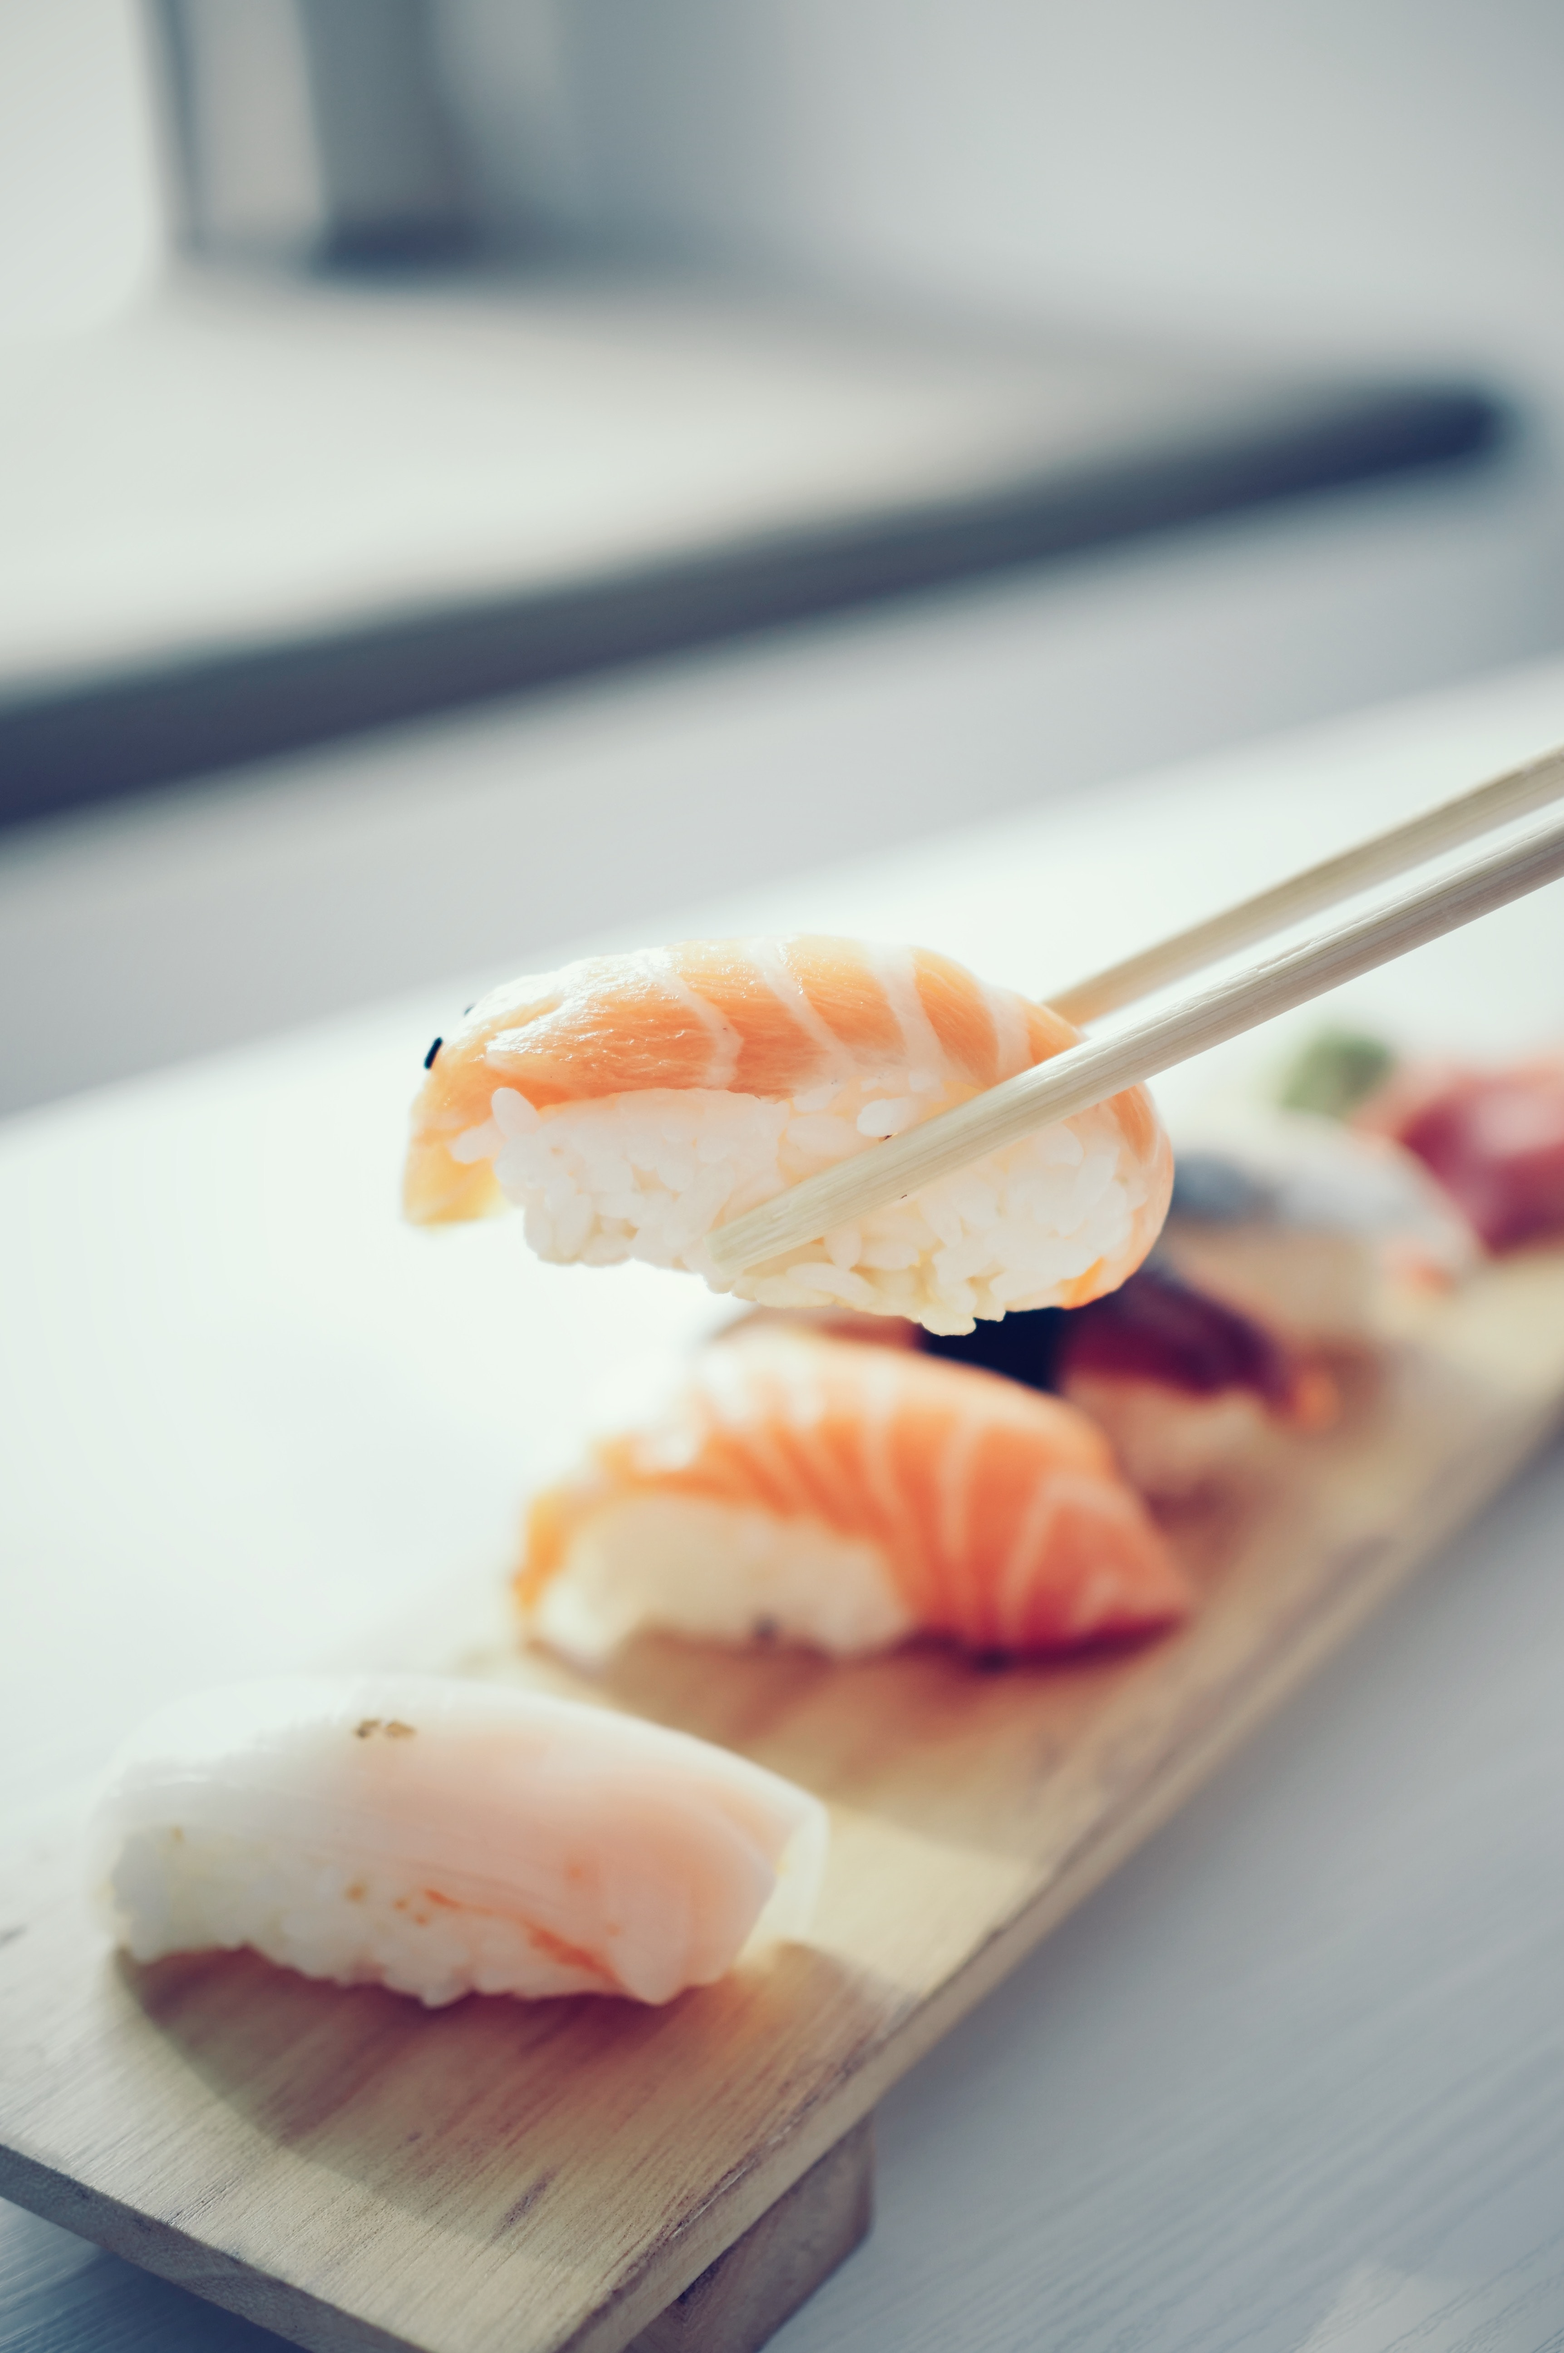
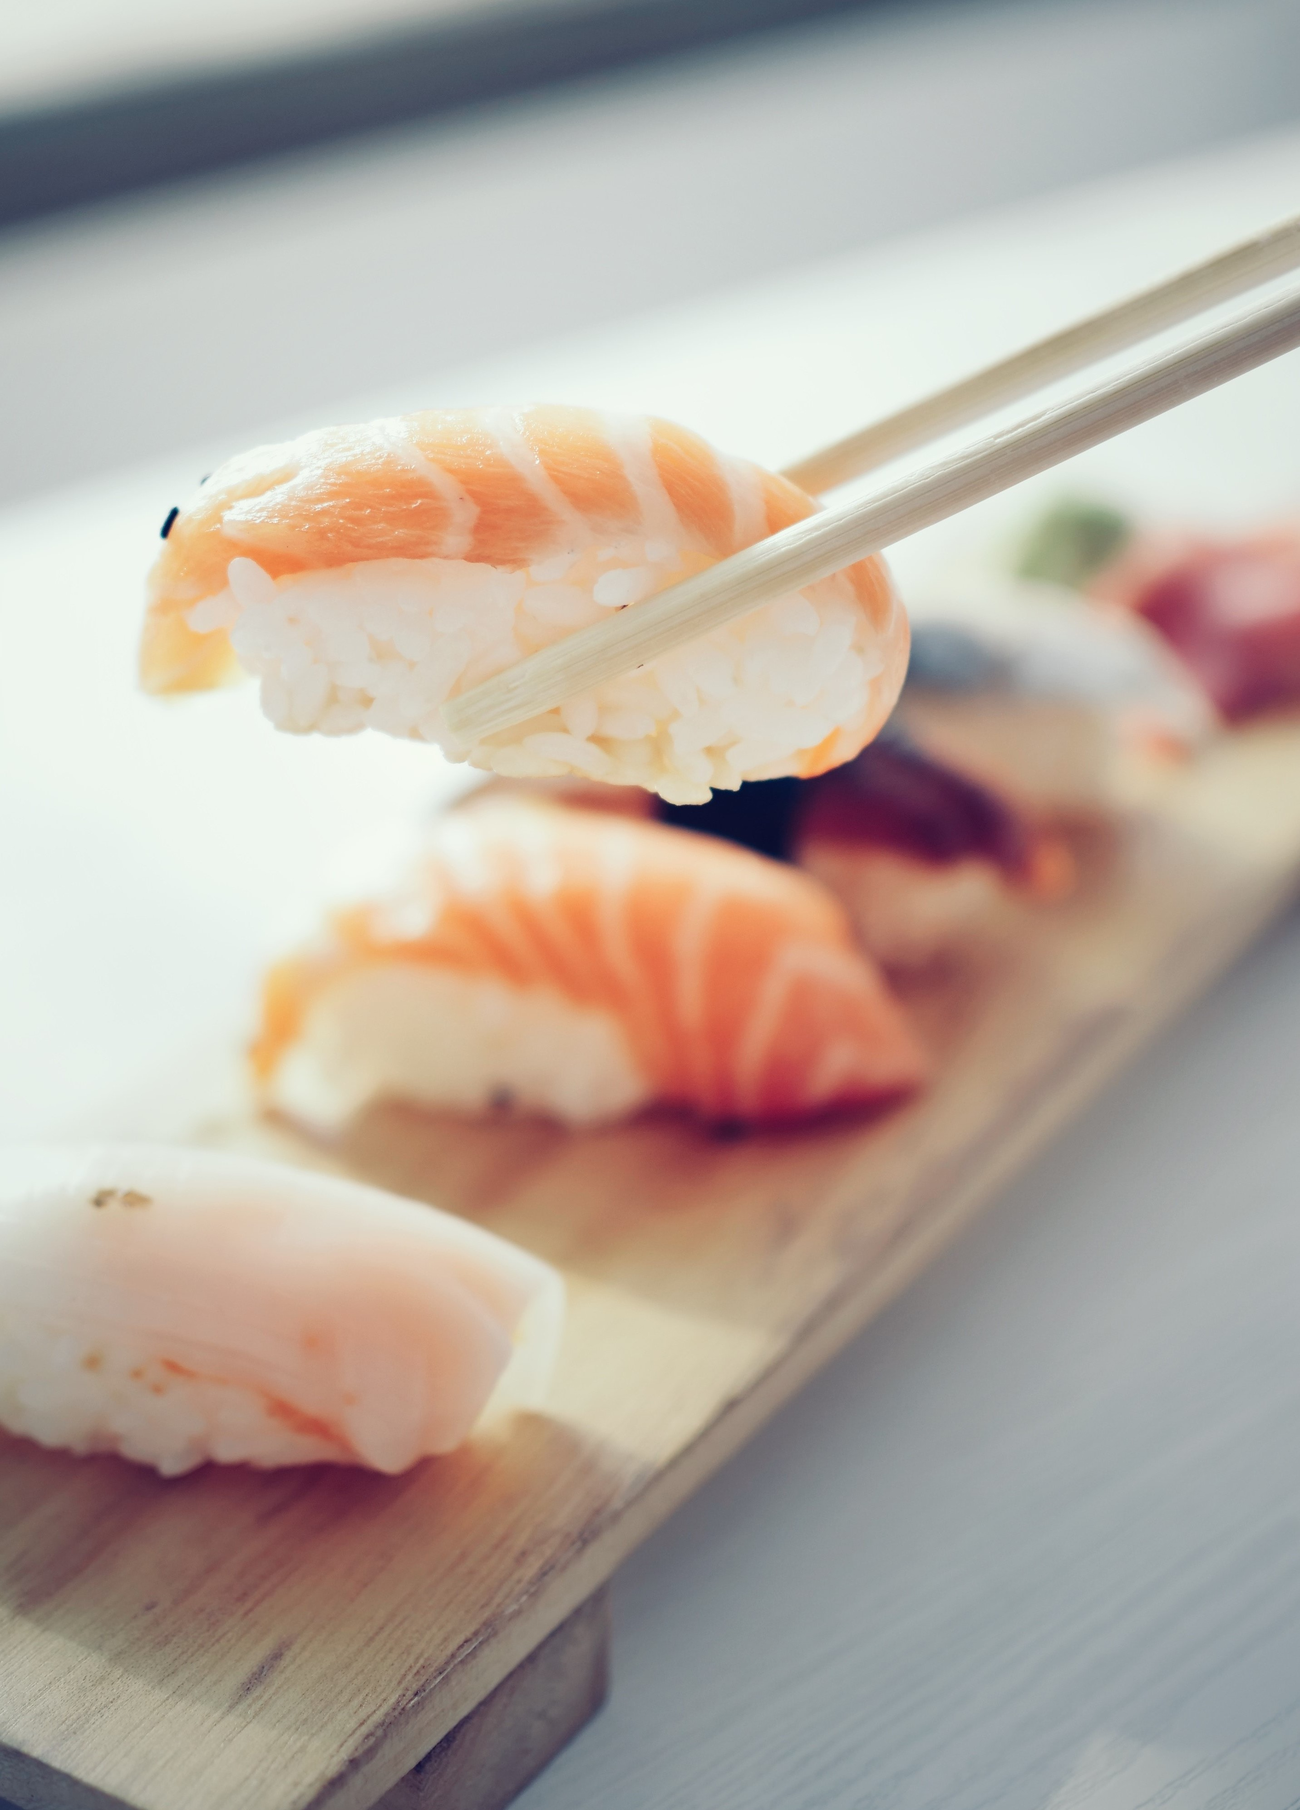
update background img

diff --git a/login/templates/register.html b/login/templates/register.html
@@ -19,7 +19,7 @@
         <h2 class="pr-5 mb-0">Foodie Favs</h2>
         <h4 class="mb-0"><a href="/about" class="about">About</a></h4>
     </header>
-    <div style="height: 750px;" class="w-50 ml-auto mr-auto mt-5 mb-5 d-flex flex-column" id="login">
+    <div style="height: 700px;" class="w-50 ml-auto mr-auto mt-5 mb-5 d-flex flex-column" id="login">
         <div class="form w-50 ml-auto h-100">   
             <h1 class="text-center">Register</h1>
             <form action="/user_login" method="POST" class="">

diff --git a/login/static/css/login.css b/login/static/css/login.css
@@ -11,7 +11,8 @@
 }
 
 #login {
-    background-image: url(""../img/sushi.jpg");
+    background-image: url("../img/sushi.jpg");
+    background-size: contain;
 }
 
 .form {
